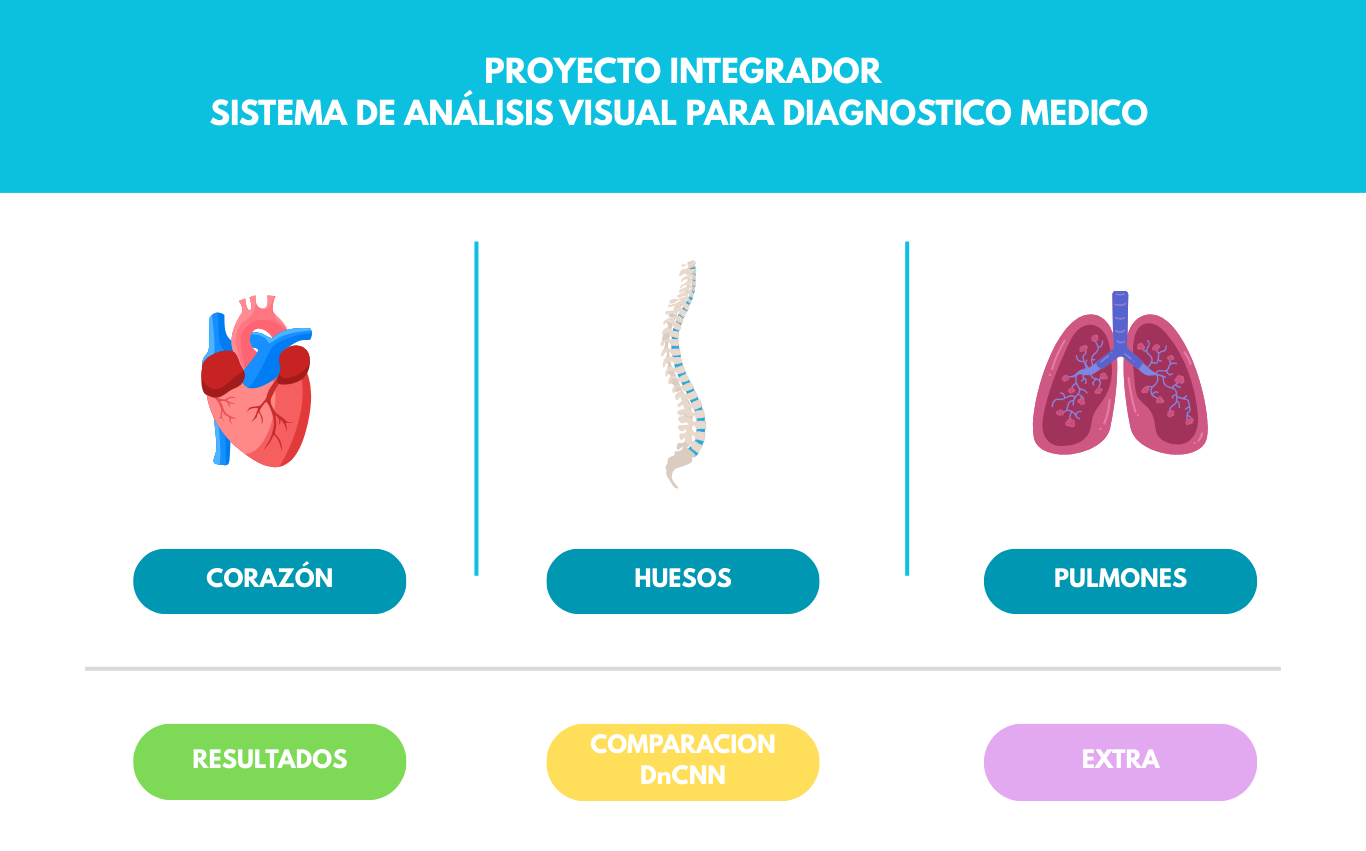
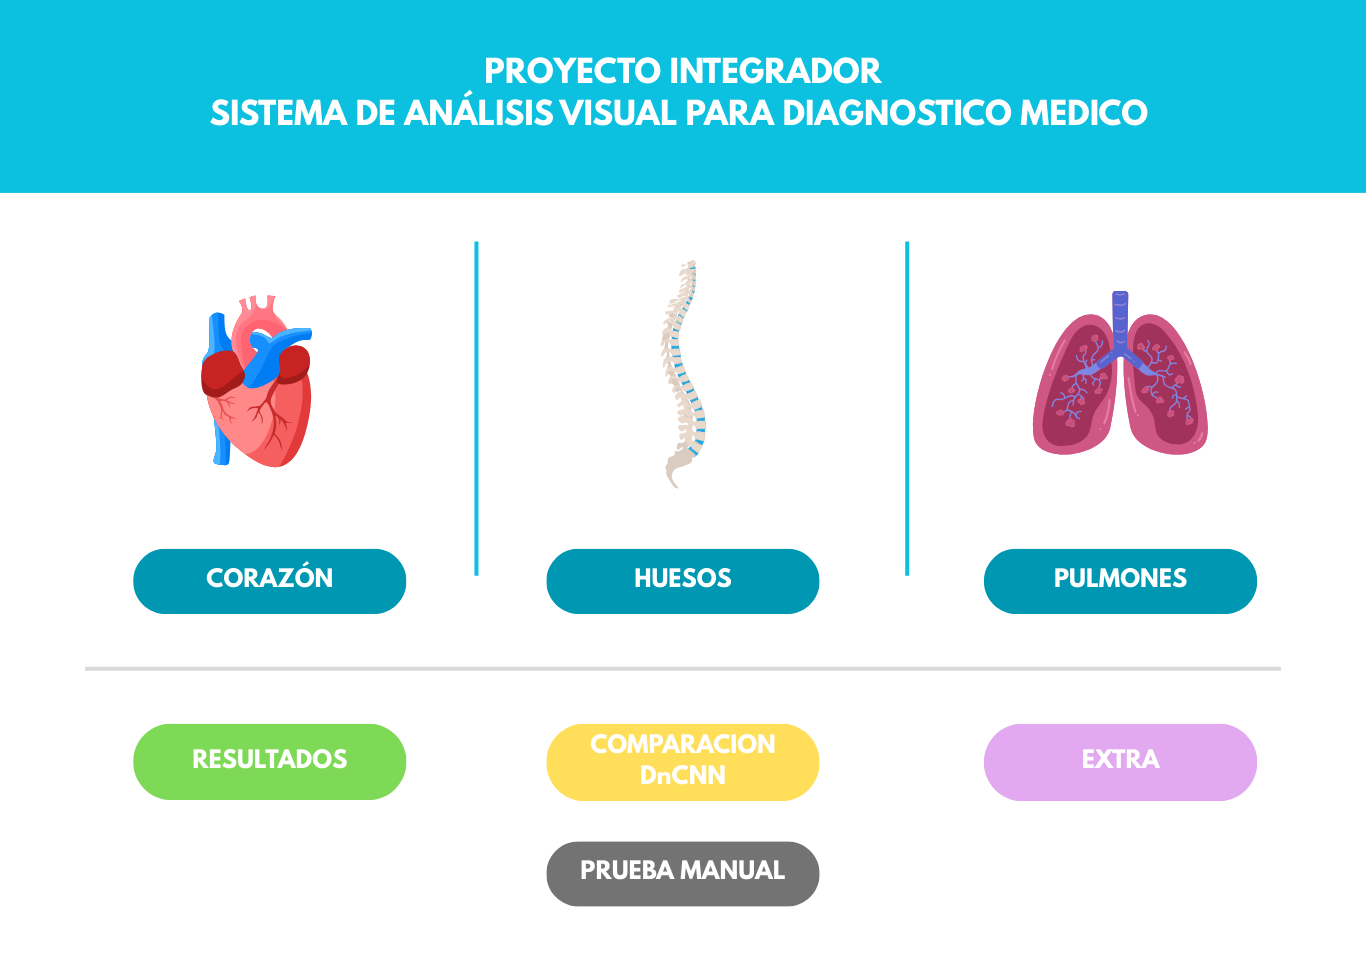
Actualización de interfaz, integracion de boton de pruebas

Changed region(s): [[0.0615, 0.275, 0.9224, 0.9471], [0.0, 0.1833, 1.0, 0.2444], [0.1537, 0.0611, 0.8609, 0.1528]]

diff --git a/main.cpp b/main.cpp
@@ -180,6 +180,8 @@ Button btn_result   = {50, 297, 147, 330};
 Button btn_comp     = {200, 297, 300, 330};
 Button btn_extra    = {359, 297, 460, 330};
 
+Button btn_pruebas    = {200, 345, 300, 375};
+
 bool inside(Button b, int x, int y) {
     return (x > b.x1 && x < b.x2 && y > b.y1 && y < b.y2);
 }
@@ -262,6 +264,15 @@ void onMouse(int event, int x, int y, int flags, void* userdata) {
             cout << "Botón: EXTRA\n";
         }
 
+        // ---- PRUEBAS ----
+        
+        else if (inside(btn_pruebas, x, y)) {
+            drawMask(img_click, btn_pruebas);
+            imshow("Aplicacion Principal", img_click);
+            waitKey(120);
+            cout << "Botón: PRUEBAS\n";
+        }
+
         // Restauramos la imagen normal después de la animación
         imshow("Aplicacion Principal", img_normal);
     }
@@ -275,7 +286,7 @@ int main() {
     img_normal = imread("img_normal.png");
     // img_menu_click = imread("img_click.png");
 
-    resize(img_normal,img_normal,cv::Size(500, 350));
+    resize(img_normal,img_normal,cv::Size(500, 395));
 
     // if (img_menu_normal.empty() || img_menu_click.empty()) {
     //     cout << "ADVERTENCIA: No se encontraron menu_normal.png o menu_click.png. Creando fondo negro." << endl;
